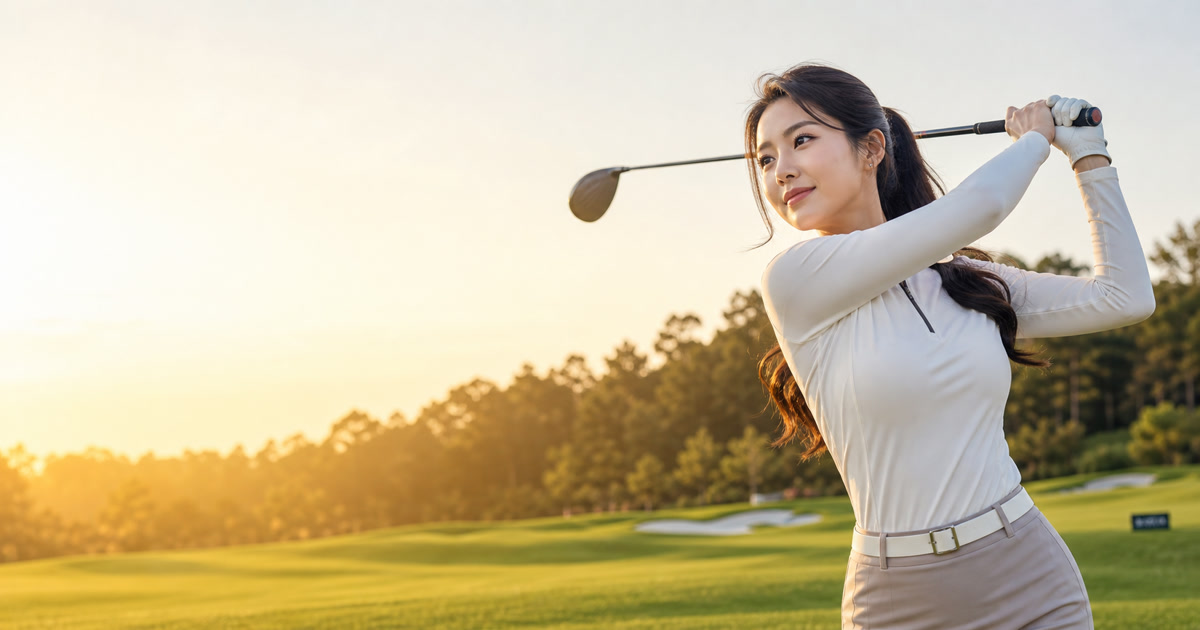
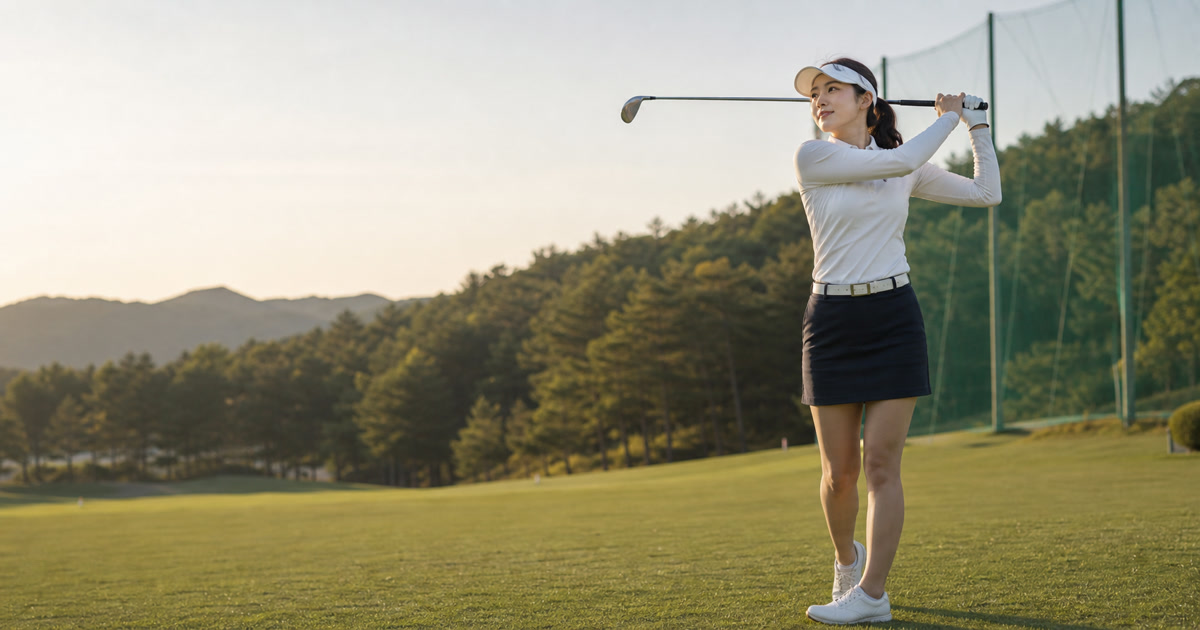
fix(marketing): refine ads and OG imagery

diff --git a/src/components/CompactAdSlider.tsx b/src/components/CompactAdSlider.tsx
@@ -31,18 +31,19 @@ export function CompactAdSlider({ banners }: { banners: SponsorBanner[] }) {
             href={banner.href}
             className="relative min-w-full overflow-hidden text-white"
           >
-            {/* 사진이 잘리지 않도록 넓은 비율 + 전체 노출 */}
-            <div className="relative aspect-[16/6] sm:aspect-[16/5]">
+            {/* 얇은 와이드 배너에서도 주요 피사체가 보이도록 이미지 포지션을 허용 */}
+            <div className="relative aspect-[16/5] sm:aspect-[7/2] lg:aspect-[4/1]">
               <Image
                 src={banner.image}
                 alt={banner.title}
                 fill
                 sizes="(max-width: 768px) 100vw, 1200px"
                 className="object-cover"
+                style={{ objectPosition: banner.imagePosition ?? "center" }}
               />
               {/* 왼쪽만 어둡게 → 오른쪽 사진은 그대로 보이고 텍스트는 읽힘 */}
-              <div className="absolute inset-0 bg-gradient-to-r from-fairway-950/85 via-fairway-950/45 to-transparent" />
-              <div className="absolute inset-0 flex items-center justify-between gap-3 px-4 sm:px-5">
+              <div className="absolute inset-0 bg-gradient-to-r from-fairway-950/82 via-fairway-950/38 to-transparent" />
+              <div className="absolute inset-0 flex items-center justify-between gap-3 px-3 sm:px-4">
                 <div className="min-w-0">
                   <div className="flex items-center gap-2">
                     <span className="rounded-full bg-white/20 px-2 py-0.5 text-[10px] font-black uppercase text-gold-200 backdrop-blur">
@@ -52,14 +53,14 @@ export function CompactAdSlider({ banners }: { banners: SponsorBanner[] }) {
                       {index + 1}/{banners.length}
                     </span>
                   </div>
-                  <h2 className="mt-1.5 line-clamp-1 text-base font-black leading-tight drop-shadow sm:text-xl">
+                  <h2 className="mt-1 line-clamp-1 text-sm font-black leading-tight drop-shadow sm:text-base lg:text-lg">
                     {banner.title}
                   </h2>
-                  <p className="mt-0.5 line-clamp-1 text-[12px] font-medium text-fairway-100 drop-shadow sm:text-[13px]">
+                  <p className="mt-0.5 line-clamp-1 text-[11px] font-medium text-fairway-100 drop-shadow sm:text-[12px]">
                     {banner.tags.slice(0, 3).join(" · ")}
                   </p>
                 </div>
-                <span className="shrink-0 rounded-full bg-gold-300 px-3 py-1.5 text-[12px] font-black text-fairway-950 shadow">
+                <span className="shrink-0 rounded-full bg-gold-300 px-2.5 py-1 text-[11px] font-black text-fairway-950 shadow sm:px-3 sm:py-1.5 sm:text-[12px]">
                   {banner.cta}
                 </span>
               </div>

diff --git a/src/lib/golf-images.ts b/src/lib/golf-images.ts
@@ -41,7 +41,7 @@ export const GOLF_IMAGES = {
     },
   },
   info: {
-    wear: "/pros/lee-hyun-swing.jpg",
+    wear: "/ads/golf-wear-campaign.jpg",
     equipment: unsplash("photo-1562204320-8f3cbd731632"),
     story: unsplash("photo-1633597468433-fdb200b73f62"),
     wiki: unsplash("photo-1605144884374-ecbb643615f6"),
@@ -49,6 +49,6 @@ export const GOLF_IMAGES = {
   sponsor: {
     gearFitting: unsplash("photo-1591491640784-3232eb748d4b"),
     fieldPackage: unsplash("photo-1532508583690-538a1436f423"),
-    wearCampaign: "/pros/lee-hyun-profile.jpg",
+    wearCampaign: "/ads/golf-wear-campaign.jpg",
   },
 } as const;

diff --git a/src/lib/golf-info.ts b/src/lib/golf-info.ts
@@ -20,6 +20,7 @@ export type SponsorBanner = {
   eyebrow: string;
   description: string;
   image: string;
+  imagePosition?: string;
   href: string;
   cta: string;
   tags: string[];
@@ -182,6 +183,7 @@ export const SPONSOR_BANNERS: SponsorBanner[] = [
     description:
       "프로 착장, 시즌 룩북, 레슨 현장 콘텐츠와 연결되는 웨어 브랜드 배너.",
     image: GOLF_IMAGES.sponsor.wearCampaign,
+    imagePosition: "62% 24%",
     href: "mailto:[email redacted]?subject=골프웨어 광고 문의",
     cta: "캠페인 문의",
     tags: ["웨어", "착장", "브랜드"],

diff --git a/src/components/SponsorAdCard.tsx b/src/components/SponsorAdCard.tsx
@@ -14,6 +14,7 @@ export function SponsorAdCard({ banner }: { banner: SponsorBanner }) {
           fill
           sizes="(max-width: 768px) 100vw, 33vw"
           className="object-cover transition-transform duration-300 group-hover:scale-105"
+          style={{ objectPosition: banner.imagePosition ?? "center" }}
         />
         <span className="absolute left-2 top-2 rounded-md bg-white/90 px-2 py-1 text-[10px] font-black uppercase text-fairway-800 shadow-sm">
           AD